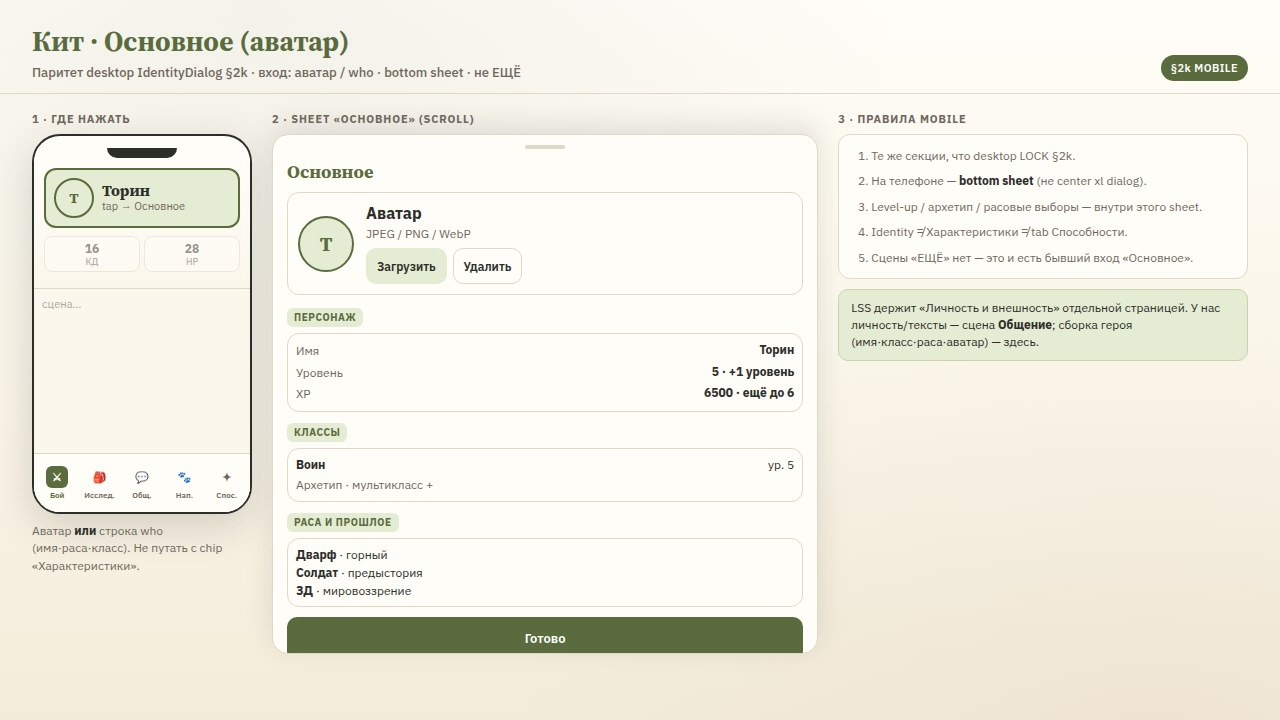
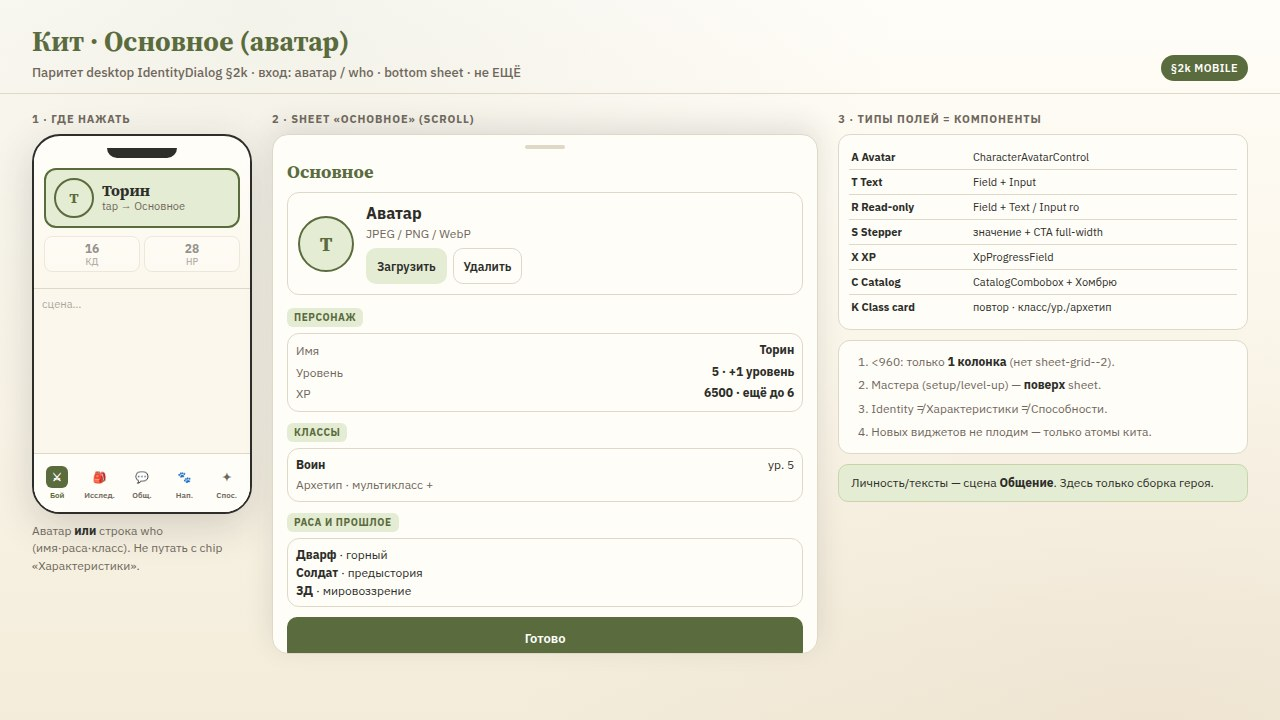
docs(mobile): Identity field-type contract as kit atoms + 1-col sheet
Map Основное slots to Avatar/Text/Read-only/Stepper/XP/Catalog/Class
card components; force single-column layout in the identity sheet.

Changed region(s): [[0.6562, 0.2139, 1.0, 0.6111], [0.6562, 0.6417, 0.9375, 0.7028], [0.6562, 0.1528, 0.8125, 0.1833]]

diff --git a/docs/ui-kit-mobile/boards/_render/boards.html b/docs/ui-kit-mobile/boards/_render/boards.html
@@ -698,18 +698,28 @@
     </div>
 
     <div style="flex:0.9;min-width:0">
-      <p class="sec-label">3 · Правила mobile</p>
+      <p class="sec-label">3 · Типы полей = компоненты</p>
+      <div class="card" style="margin-bottom:10px;padding:10px;font-size:11px">
+        <table style="width:100%;border-collapse:collapse">
+          <tr style="border-bottom:1px solid var(--line)"><td style="padding:5px 2px;font-weight:700">A Avatar</td><td style="padding:5px 2px">CharacterAvatarControl</td></tr>
+          <tr style="border-bottom:1px solid var(--line)"><td style="padding:5px 2px;font-weight:700">T Text</td><td style="padding:5px 2px">Field + Input</td></tr>
+          <tr style="border-bottom:1px solid var(--line)"><td style="padding:5px 2px;font-weight:700">R Read-only</td><td style="padding:5px 2px">Field + Text / Input ro</td></tr>
+          <tr style="border-bottom:1px solid var(--line)"><td style="padding:5px 2px;font-weight:700">S Stepper</td><td style="padding:5px 2px">значение + CTA full-width</td></tr>
+          <tr style="border-bottom:1px solid var(--line)"><td style="padding:5px 2px;font-weight:700">X XP</td><td style="padding:5px 2px">XpProgressField</td></tr>
+          <tr style="border-bottom:1px solid var(--line)"><td style="padding:5px 2px;font-weight:700">C Catalog</td><td style="padding:5px 2px">CatalogCombobox + Хомбрю</td></tr>
+          <tr><td style="padding:5px 2px;font-weight:700">K Class card</td><td style="padding:5px 2px">повтор · класс/ур./архетип</td></tr>
+        </table>
+      </div>
       <div class="card" style="margin-bottom:10px">
         <ol class="note" style="margin:0;padding-left:18px">
-          <li style="margin-bottom:8px">Те же секции, что desktop LOCK §2k.</li>
-          <li style="margin-bottom:8px">На телефоне — <strong>bottom sheet</strong> (не center xl dialog).</li>
-          <li style="margin-bottom:8px">Level-up / архетип / расовые выборы — внутри этого sheet.</li>
-          <li style="margin-bottom:8px">Identity ≠ Характеристики ≠ tab Способности.</li>
-          <li>Сцены «ЕЩЁ» нет — это и есть бывший вход «Основное».</li>
+          <li style="margin-bottom:6px">&lt;960: только <strong>1 колонка</strong> (нет sheet-grid--2).</li>
+          <li style="margin-bottom:6px">Мастера (setup/level-up) — <strong>поверх</strong> sheet.</li>
+          <li style="margin-bottom:6px">Identity ≠ Характеристики ≠ Способности.</li>
+          <li>Новых виджетов не плодим — только атомы кита.</li>
         </ol>
       </div>
       <div class="callout">
-        LSS держит «Личность и внешность» отдельной страницей. У нас личность/тексты — сцена <strong>Общение</strong>; сборка героя (имя·класс·раса·аватар) — здесь.
+        Личность/тексты — сцена <strong>Общение</strong>. Здесь только сборка героя.
       </div>
     </div>
   </div>

diff --git a/frontend/src/index.css b/frontend/src/index.css
@@ -6065,6 +6065,50 @@ button.spell-card__cast:hover:not(:disabled) {
   background: #fff;
 }
 
+/* Identity sheet on phone: one column, stacked field atoms (kit §3.5a) */
+@media (max-width: 959px) {
+  .identity-dialog {
+    gap: 12px;
+  }
+  .identity-dialog__form {
+    gap: 12px;
+  }
+  .identity-dialog__form > .sheet-grid--2,
+  .identity-dialog__class > .sheet-grid--2 {
+    grid-template-columns: 1fr;
+  }
+  .identity-dialog__avatar {
+    flex-direction: column;
+    align-items: stretch;
+  }
+  .identity-dialog__avatar .char-avatar,
+  .identity-dialog__avatar .avatar-control {
+    justify-content: flex-start;
+  }
+  /* Stepper / catalog+homebrew rows: value then full-width CTA */
+  .identity-dialog .languages-tools-add {
+    grid-template-columns: 1fr;
+    gap: 8px;
+  }
+  .identity-dialog .languages-tools-add .ui-button {
+    width: 100%;
+    min-height: 44px;
+    justify-content: center;
+  }
+  .identity-dialog .ui-input {
+    min-height: 44px;
+  }
+  .identity-dialog .ui-input:read-only {
+    background: color-mix(in srgb, var(--line) 35%, #fff);
+    color: var(--ink);
+    cursor: default;
+  }
+  /* Keep combobox suggestions inside the sheet scrollport */
+  .ui-dialog--xl .identity-dialog .ui-combobox__list {
+    max-height: min(200px, 28dvh);
+  }
+}
+
 .play-desk {
   /* Alias kit tokens — no parallel mint/teal theme */
   --desk-ink: var(--ink);

diff --git a/docs/ui-kit-mobile/README.md b/docs/ui-kit-mobile/README.md
@@ -180,8 +180,34 @@ Icons: те же `IconConditions` / `IconConcentration` / `IconPouch`.
 | Conditions | HotStrip | exhaustion + on-character + quick pick |
 | Cast | Каст | upcast / источник / conc swap |
 | Ownership | из страницы Характеристики «Владения ▸» | скорости/ТЗ · снаряжение · языки/инструменты |
-| Identity | аватар / who | как desktop IdentityDialog |
+| Identity | аватар / who | как desktop IdentityDialog · **поля = атомы ниже** |
 | Attunement | summary инвентаря | слоты 0–3 |
+
+### 3.5a Identity «Основное» — типы полей (компоненты)
+
+Не плодим новые виджеты. Каждый слот в sheet = уже существующий атом UI kit / play desk. На телефоне меняется **только раскладка** (1 колонка, полный tap).
+
+| Тип | Где в «Основном» | Компонент (код) | Mobile правило |
+|-----|------------------|-----------------|----------------|
+| **A · Avatar** | шапка sheet | `CharacterAvatarControl` | блок на всю ширину; upload/delete ≥44px |
+| **T · Text** | Имя · мировоззрение | `Field` + `Input` | 1 колонка; `inputmode`/autocomplete ок |
+| **R · Read-only** | БМ · Размер · ур. класса (цифра) | `Field` + `Input readOnly` **или** `Text` | выглядит как display, не как «сломанный» input; не фокусируется |
+| **S · Stepper / CTA** | Уровень персонажа (+1) · −1 ур. класса | `Field` + row `Input readOnly` + `Button` | **стек**: значение сверху, CTA на всю ширину под ним (`identity-field--stack`) |
+| **X · XP composite** | Опыт | `XpProgressField` | полная ширина; tap по числу → NumberPad (как desk) |
+| **C · Catalog pick** | Класс · архетип · раса · предыстория | `CatalogCombobox` (+ `Button` Хомбрю) | combobox list **внутри sheet** (не уезжает за viewport); Хомбрю — secondary под полем, full-width |
+| **K · Class card** | повтор по `draft.classes` | `.identity-dialog__class` | одна карточка = класс+ур.+архетип; мультикласс = ещё карта |
+| **H · Hint** | подсказки шагов | `Field hint` / `Text tone="muted"` | не конкурирует с tap; мелкий muted |
+
+**Секции (порядок LOCK §2k):** Аватар → Персонаж → Классы → Раса и прошлое.
+
+**Сетка:** на `<960` внутри Identity **запрещён** `sheet-grid--2` в две колонки — всё в один стол (`identity-dialog--mobile` / media). Desk 2-col остаётся.
+
+**Вложенные мастера** (ClassSetup / RaceSetup / LevelUp / SubclassChange): открываются **поверх** Identity sheet (z выше), закрытие = назад в Основное. Не уводить в отдельный tab.
+
+**Не путать:**
+- Identity (сборка героя) ≠ страница Характеристики (СИЛ…) ≠ tab Способности (умения).
+
+Доска: [`boards/dvarf-mobile-kit-identity.jpg`](boards/dvarf-mobile-kit-identity.jpg) (+ поля на той же доске).
 
 ### 3.5b Полноэкранные страницы (не sheet, не tab)
 
